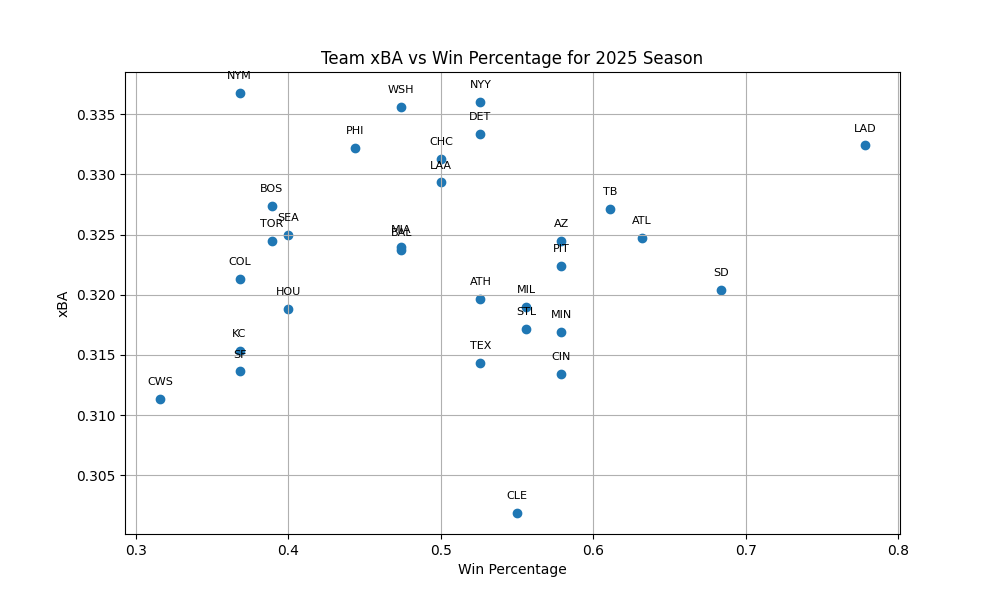
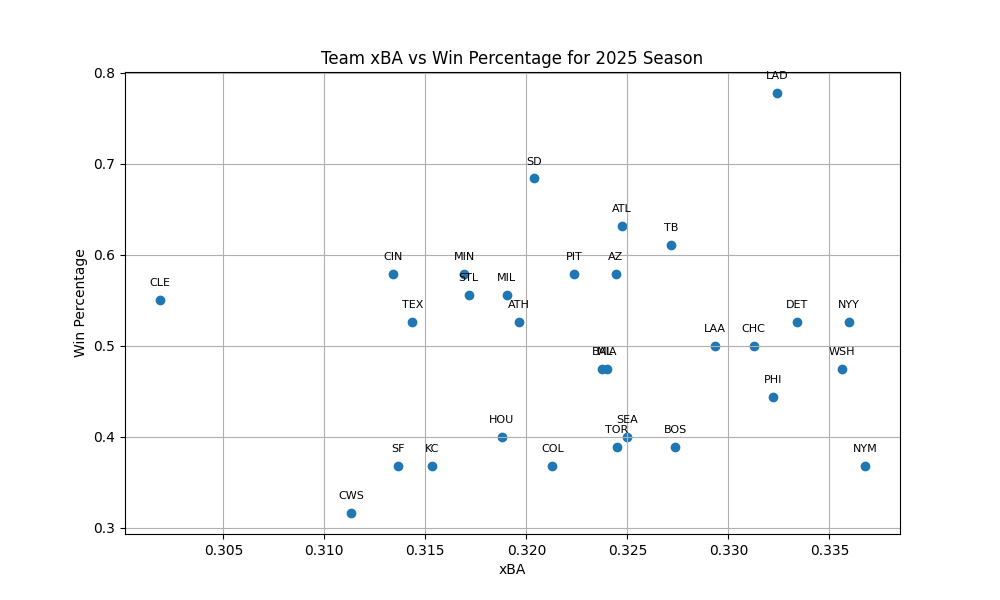
Switched axes on plot

diff --git a/scripts/team_xba.py b/scripts/team_xba.py
@@ -26,13 +26,13 @@ plt.savefig("figures/team_xba_vs_avg.png")
 
 team_df['Win%'] = team_stats.set_index('Team').loc[team_df.index]['Win%']
 plt.figure(figsize=(10, 6))
-plt.scatter(team_df['Win%'], team_df['xBA'])
-plt.xlabel('Win Percentage')
-plt.ylabel('xBA')
+plt.scatter(team_df['xBA'], team_df['Win%'])
+plt.xlabel('xBA')
+plt.ylabel('Win Percentage')
 plt.title('Team xBA vs Win Percentage for 2025 Season')
 plt.grid()
 for i, team in enumerate(team_df.index):
-    plt.annotate(team, (team_df['Win%'].iloc[i], team_df['xBA'].iloc[i]),
+    plt.annotate(team, (team_df['xBA'].iloc[i], team_df['Win%'].iloc[i]),
                  textcoords="offset points", xytext=(0, 10), ha='center', fontsize=8)
 plt.savefig("figures/team_xba_vs_win%.png")
 